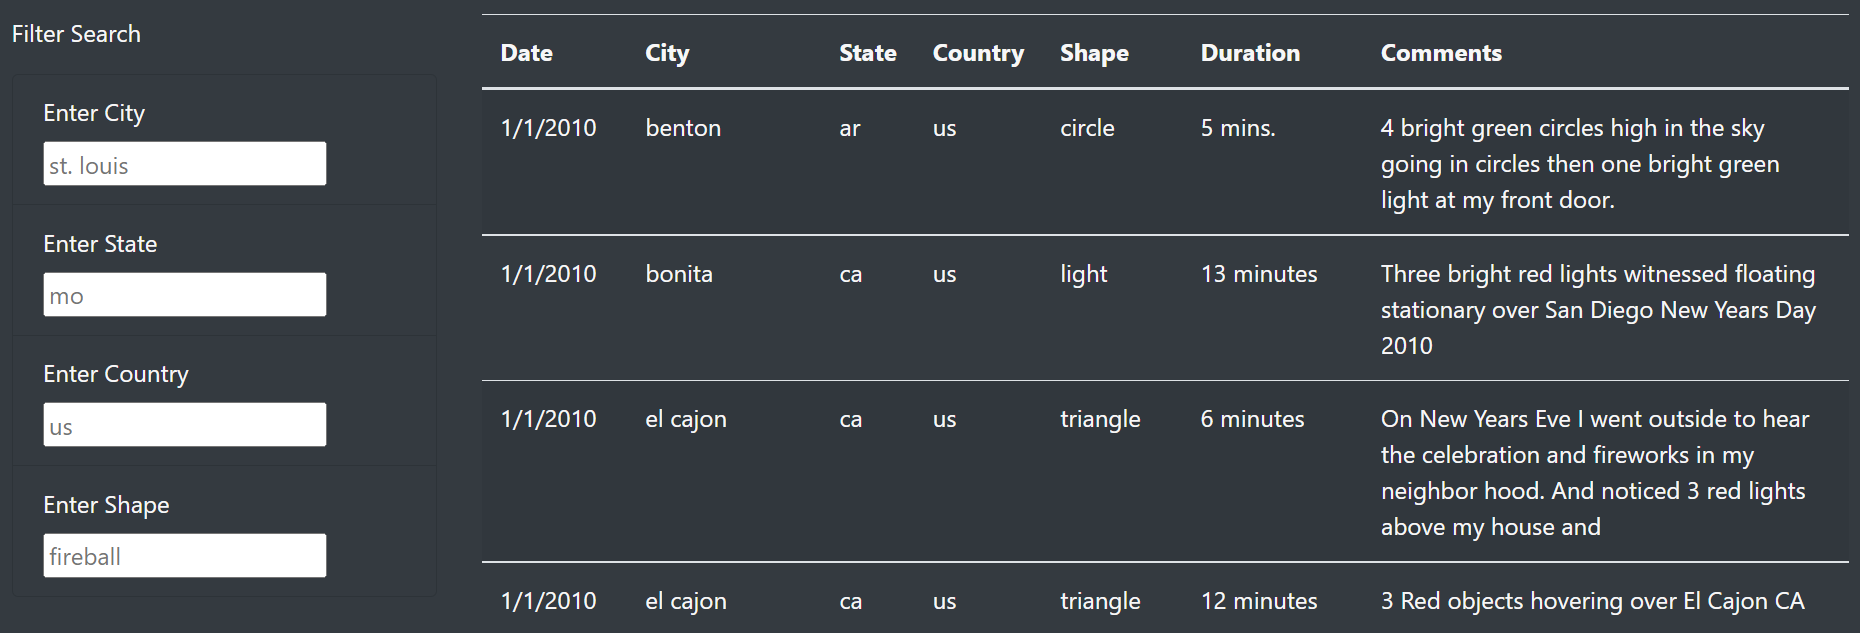
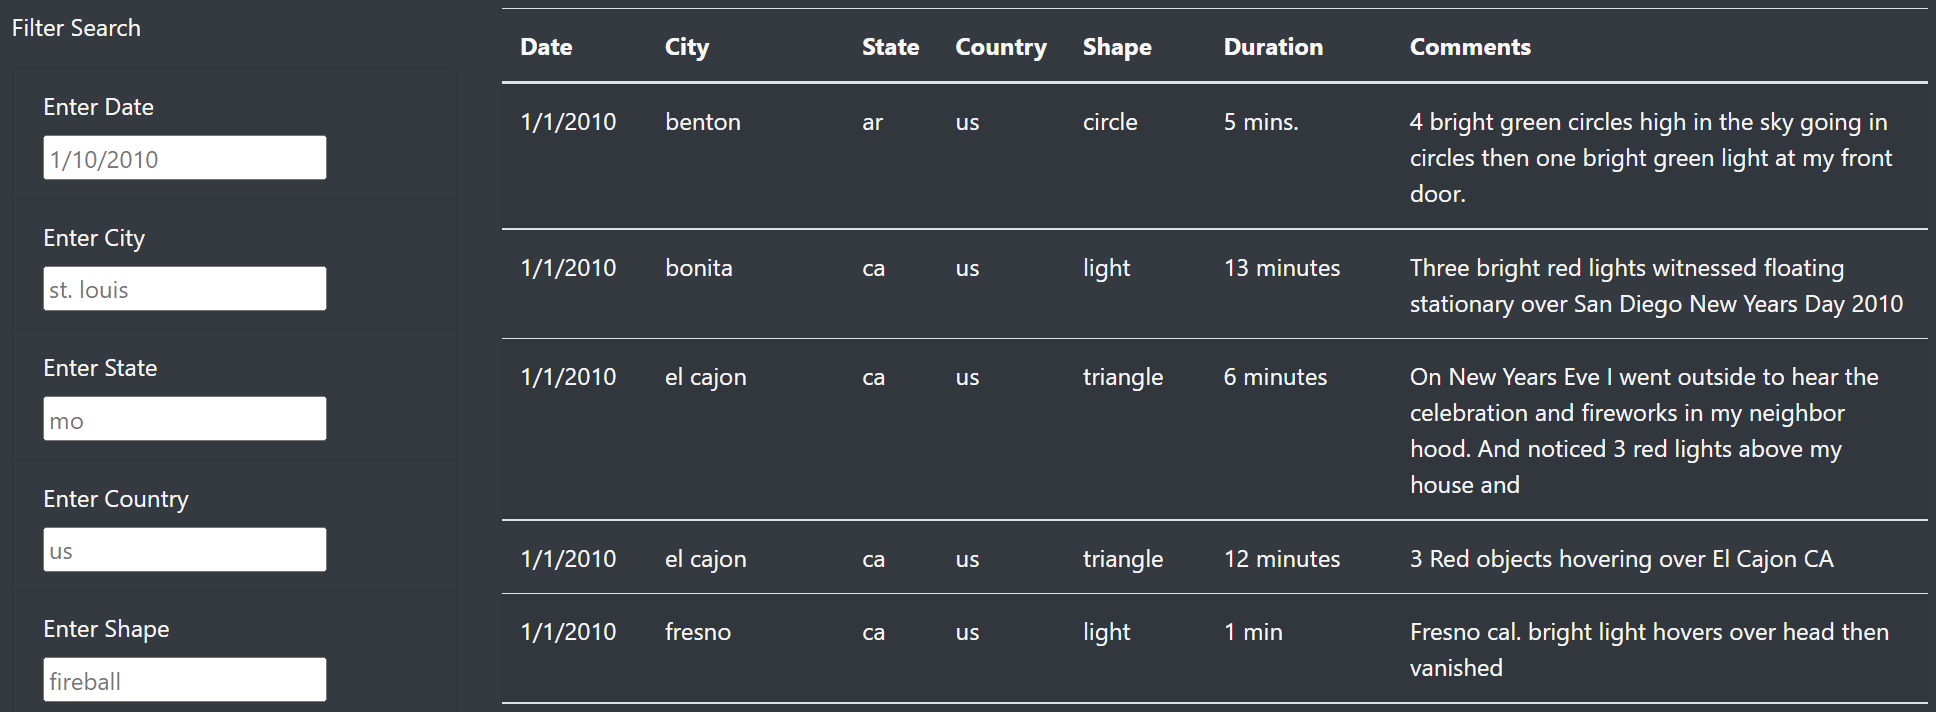
updated challenge files

diff --git a/index.html b/index.html
@@ -67,6 +67,10 @@
                 
                     <ul class="list-group bg-dark">
                         <li class="list-group-item bg-dark">
+                            <label for="date">Enter Date</label>
+                            <input type="text" placeholder="1/10/2010" id="datetime" />
+                        </li>
+                        <li class="list-group-item bg-dark">
                             <label for="city">Enter City</label>
                             <input type="text" placeholder="st. louis" id="city" />
                         </li>
